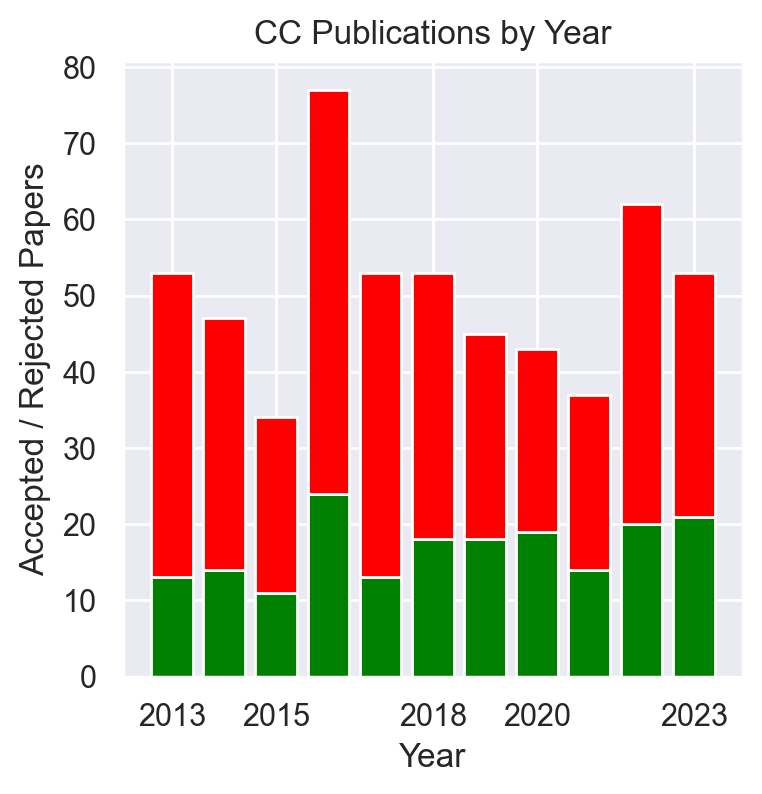
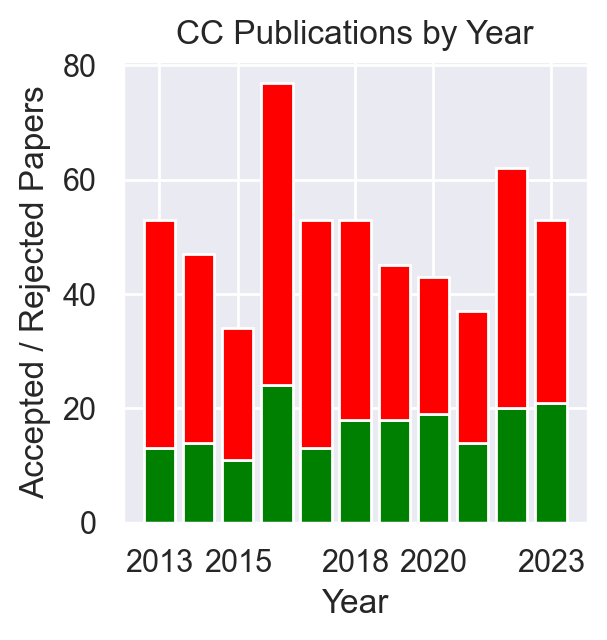
More space hacking.

Changed region(s): [[0.0, 0.0, 0.9786, 0.9688], [0.089, 0.0625, 0.1779, 0.125]]

diff --git a/conferences.py b/conferences.py
@@ -70,16 +70,16 @@ if args.conference_name:
 if args.all:
     conference_name_list = conference_list
 
-# Set the dimensions (in inches) of the plot.
-plt.figure(figsize=(4, 4))
-
 # Set the theme and remove the axes.
 # sns.set_style("ticks")
 sns.set_theme()
 sns.despine()
 
+# Set the dimensions (in inches) of the plot.
+plt.figure(figsize=(3, 3))
     
 for conference_name in conference_name_list:
+
     # Filter the data by conference
     conf_data = full_conf_data.copy()
     conf_data = conf_data.loc[conf_data["Conference"] == conference_name]
@@ -110,7 +110,6 @@ for conference_name in conference_name_list:
     # Set the title of the plot
     plt.title(f"{conference_name} Publications by Year")
 
-   
     # Save the plot
     plt.savefig(f"graphs/{conference_name}.pdf", bbox_inches="tight")
     plt.savefig(f"graphs/{conference_name}.png", bbox_inches="tight")
